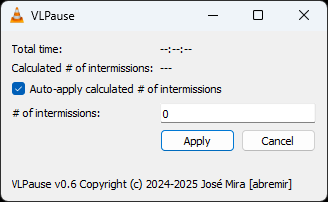
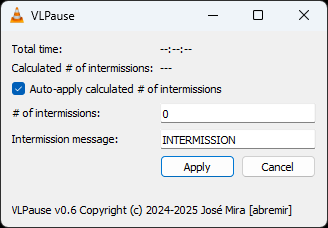
V0.7 (#6)
* allow customized intermission message in configuration

* load configuration as table

* handle customized intermission message

* bump version

* tidy-up changelog

* update README for v0.7

diff --git a/README.md b/README.md
@@ -20,6 +20,7 @@ The number of times the video will pause for intermission can be calculated or m
     * otherwise, number of hours in `duration - 1h15m` plus 1
 * **Auto-apply calculated # of intermissions**: when checked, only the calculated number of intermissions will always be used (disregarding the value entered in `# of intermissions`)
 * **\# of intermissions**: number of intermissions manually entered (will only be used if the aut-apply checkbox is not checked)
+* **Intermission message**: message to be displayed on intermission
 
 ## Installation
 
@@ -46,6 +47,8 @@ Or, take the zip file in the release assets and unzip into the Lua directory.
 
 ## Changelog
 
+* 0.7
+  * allow customization of intermission message
 * 0.6
   * replace static dropdown to select the number of intermissions with text input to allow manual entry
 * 0.5
@@ -53,13 +56,16 @@ Or, take the zip file in the release assets and unzip into the Lua directory.
   * calculate suggested number of intermissions instead of relying on a static mapping table
   * refactor loop function to re-calculate variables when input URI changes
   * display number of planned intermissions on start of play
-* 0.4 - allow automatic skip intermission if suggested number of intermissions is zero
+* 0.4
+  * allow automatic skip intermission if suggested number of intermissions is zero [obsolete v0.5]
 * 0.3
-  * allows selection of number of intermissions, up to 5 equal length chunks
+  * allows selection of number of intermissions, up to 5 equal length chunks [obsolete v0.6]
   * add suggested number of intermissions based on duration of input
   * other cosmetic changes
-* 0.2 - fix issue when running on a brand new install of vlc
-* 0.1 - initial version with pausing only at 50% duration of playing item
+* 0.2
+  * fix issue when running on a brand new install of vlc
+* 0.1
+  * initial version with pausing only at 50% duration of playing item [obsolete v0.3]
 
 ## Acknowledgements
 
@@ -70,5 +76,7 @@ Or, take the zip file in the release assets and unzip into the Lua directory.
 * [Time v3.2](https://addons.videolan.org/p/1154032/) (c) lubozle
 * lua-users wiki - [String Recipes](http://lua-users.org/wiki/StringRecipes)
 * [How to dump a table to console?](https://stackoverflow.com/a/27028488/552219)
+* [LUA script](https://luascripts.com/)
 * [Lua compiler](https://onecompiler.com/lua)
+* [Run  lua in the browser](https://glot.io/new/lua)
 * [Big Buck Bunny](https://www.bigbuckbunny.org) (c) copyright 2008, Blender Foundation / www.bigbuckbunny.org
